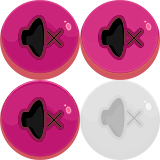
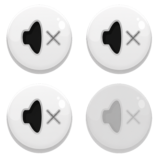
apply tint from options to gametheme and buttons

diff --git a/src/game/scenes/gameScene.ts b/src/game/scenes/gameScene.ts
@@ -56,7 +56,7 @@ export default class GameScene extends Phaser.Scene {
 		this.gamePaused = false;
 		this.runOnce = false;
 
-		this.buttonDummy = new Button(this, GameParameters.worldParameters.centerX, GameParameters.worldParameters.centerY, 'clickme', this.addPoints);
+		this.buttonDummy = new Button(this, GameParameters.worldParameters.centerX, GameParameters.worldParameters.centerY, 'clickme', this.addPoints, false, false);
         this.buttonDummy.setOrigin(0.5,0.5);
         this.buttonDummy.setAlpha(0);
         this.buttonDummy.setScale(0.1);
@@ -250,8 +250,8 @@ export default class GameScene extends Phaser.Scene {
 		const rawHighscore = LocalStorageHelpers.get('APT-highscore');
 		const highscore = typeof rawHighscore === 'number' ? rawHighscore : Number(rawHighscore ?? 0) || 0;
 
-		var fontScore = { font: '38px '+ LanguageHelpers.getText('FONT'), fill: '#D63384', stroke: '#000', strokeThickness: 5 };
-		var fontScoreWhite =  { font: '38px '+ LanguageHelpers.getText('FONT'), fill: '#000', stroke: '#D63384', strokeThickness: 5 };
+		var fontScore = { font: '38px '+ LanguageHelpers.getText('FONT'), fill: GameOptions.gameThemeTint.asString, stroke: '#000', strokeThickness: 5 };
+		var fontScoreWhite =  { font: '38px '+ LanguageHelpers.getText('FONT'), fill: '#000', stroke: GameOptions.gameThemeTint.asString, strokeThickness: 5 };
 
 		this.textHighscore = this.add.text(
 			GameParameters.worldParameters.width - 30,
@@ -279,7 +279,7 @@ export default class GameScene extends Phaser.Scene {
 		this.buttonPause.y = -this.buttonPause.height-20;
         this.tweens.add({targets: this.buttonPause, y: 20, duration: 500, ease: 'Back'});
 
-		var fontTitle = { font: '48px '+ LanguageHelpers.getText('FONT'), fill: '#000', stroke: '#D63384', strokeThickness: 10 };
+		var fontTitle = { font: '48px '+ LanguageHelpers.getText('FONT'), fill: '#000', stroke: GameOptions.gameThemeTint.asString, strokeThickness: 10 };
 
 		this.screenPausedGroup = this.add.group();
         this.screenPausedBg = this.add.sprite(0, 0, 'overlay');
@@ -350,7 +350,7 @@ export default class GameScene extends Phaser.Scene {
         
         var randX = Phaser.Math.Between(200, GameParameters.worldParameters.width-200);
         var randY = Phaser.Math.Between(200, GameParameters.worldParameters.height-200);
-        var fontTitle = { font: '48px '+ LanguageHelpers.getText('FONT'), fill: '#D63384', stroke: '#000', strokeThickness: 10 };
+        var fontTitle = { font: '48px '+ LanguageHelpers.getText('FONT'), fill: GameOptions.gameThemeTint.asString, stroke: '#000', strokeThickness: 10 };
 		var pointsAdded = this.add.text(randX, randY, '+10', fontTitle);
 		pointsAdded.setOrigin(0.5, 0.5);
         this.tweens.add({targets: pointsAdded, alpha: 0, y: randY-50, duration: 1000, ease: 'Linear'});

diff --git a/src/game/scenes/settingsScene.ts b/src/game/scenes/settingsScene.ts
@@ -1,4 +1,5 @@
 import * as Phaser from 'phaser';
+import { GameOptions } from '../constants/gameOptions';
 import GameParameters from  '../Shared/gameParameters';
 import Button from '../components/UI/button';
 import GameHelpers from '../Shared/gameHelpers';
@@ -42,9 +43,9 @@ export default class SettingsScene extends Phaser.Scene {
 		this.buttonBack.y = -this.buttonBack.height-20;
 		this.tweens.add({targets: this.buttonBack, y: 20, duration: 500, ease: 'Back'});
 
-		var fontTitle = { font: '46px ' + LanguageHelpers.getText('FONT'), fill: '#D63384', stroke: '#000', strokeThickness: 7, align: 'center' };
-		var fontSubtitle = { font: '38px '+LanguageHelpers.getText('FONT'), fill: '#D63384', stroke: '#000', strokeThickness: 5, align: 'center' };
-		var fontSmall = { font: '28px '+LanguageHelpers.getText('FONT'), fill: '#D63384', stroke: '#000', strokeThickness: 4, align: 'center' };
+		var fontTitle = { font: '46px ' + LanguageHelpers.getText('FONT'), fill: GameOptions.gameThemeTint.asString, stroke: '#000', strokeThickness: 7, align: 'center' };
+		var fontSubtitle = { font: '38px '+LanguageHelpers.getText('FONT'), fill: GameOptions.gameThemeTint.asString, stroke: '#000', strokeThickness: 5, align: 'center' };
+		var fontSmall = { font: '28px '+LanguageHelpers.getText('FONT'), fill: GameOptions.gameThemeTint.asString, stroke: '#000', strokeThickness: 4, align: 'center' };
 		var titleSettings = this.add.text(GameParameters.worldParameters.centerX, 60, LanguageHelpers.getText('settings'), fontTitle);
 		titleSettings.setOrigin(0.5, 0.5);
 		var offsetLeft = 130;

diff --git a/src/game/components/UI/button.ts b/src/game/components/UI/button.ts
@@ -1,4 +1,5 @@
 import * as Phaser from 'phaser';
+import { GameOptions } from '../../constants/gameOptions';
 
 export default class Button extends Phaser.GameObjects.Image {
   constructor(
@@ -7,10 +8,15 @@ export default class Button extends Phaser.GameObjects.Image {
     y: number,
     texture: string,
     callback: () => void,
-    noframes: boolean = false
+    noframes: boolean = false,
+    applyThemeTint: boolean = true
   ) {
     // Appeler le constructeur parent
     super(scene, x, y, texture, 0);
+
+    if (applyThemeTint) {
+      this.setTint(GameOptions.gameThemeTint.asNumber);
+    }
 
     // Définir les interactions avec la souris
     this.setInteractive({ useHandCursor: true });

diff --git a/src/game/constants/gameOptions.ts b/src/game/constants/gameOptions.ts
@@ -1,3 +1,6 @@
+/** Single source of truth for the general game / UI accent (Phaser APIs use numbers; text/CSS-style APIs use hex strings). */
+export const ACCENT_TINT = 0xd63384;
+
 export const GameOptions : any = {
    
     debugMode           : true,
@@ -13,5 +16,10 @@ export const GameOptions : any = {
 
     playerSpeed         : 50,       // player speed, in pixels per second
     gravity             : 400,      // game gravity
-    jumpForce           : 200       // player jump force    
+    jumpForce           : 200,       // player jump force
+
+    gameThemeTint : {
+        asNumber : ACCENT_TINT,
+        asString : '#' + ACCENT_TINT.toString(16).padStart(6, '0').toUpperCase(),
+    },
 }

diff --git a/src/game/scenes/preloaderScene.ts b/src/game/scenes/preloaderScene.ts
@@ -1,4 +1,5 @@
 import * as Phaser from 'phaser';
+import { GameOptions } from '../constants/gameOptions';
 import GameParameters from  '../Shared/gameParameters';
 import GameHelpers from '../Shared/gameHelpers';
 
@@ -21,7 +22,7 @@ export default class PreloaderScene extends Phaser.Scene {
 		var progress = this.add.graphics();
 		this.load.on('progress', function (value : number) {
 			progress.clear();
-			progress.fillStyle(0xD63384, 1);
+			progress.fillStyle(GameOptions.gameThemeTint.asNumber, 1);
 			progress.fillRect(loadingBg.x-(loadingBg.width*0.5)+20, loadingBg.y-(loadingBg.height*0.5)+10, 540 * value, 25);
 		});
 
